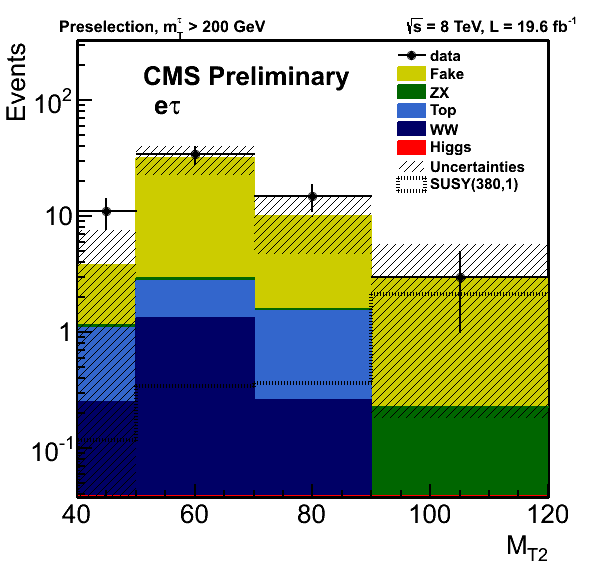
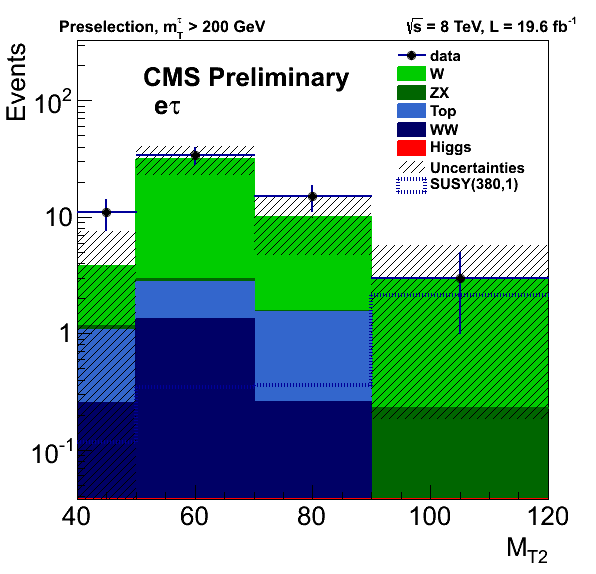
plots in StatisticsFig are modified.

diff --git a/notes/SUS-14-022/trunk/StatisticsFig/MT2_tauMTgt200_DDFakeEleTau.C b/notes/SUS-14-022/trunk/StatisticsFig/MT2_tauMTgt200_DDFakeEleTau.C
@@ -265,10 +265,10 @@ void MT2_tauMTgt200_DDFakeEleTau(){
    Total200_fromMuTau_MT2_data_Rebinned->SetStats(0);
 
    ci = TColor::GetColor("#cccc00");
-   Total200_fromMuTau_MT2_data_Rebinned->SetFillColor(ci);
+   Total200_fromMuTau_MT2_data_Rebinned->SetFillColor(417);
 
    ci = TColor::GetColor("#cccc00");
-   Total200_fromMuTau_MT2_data_Rebinned->SetLineColor(ci);
+   Total200_fromMuTau_MT2_data_Rebinned->SetLineColor(417);
    Total200_fromMuTau_MT2_data_Rebinned->SetLineWidth(2);
 
    ci = TColor::GetColor("#cccc00");
@@ -417,7 +417,7 @@ void MT2_tauMTgt200_DDFakeEleTau(){
 
    TLegendEntry *entry;
    entry=leg->AddEntry(TauMTCut_MT2_data_Rebinned,"data","lp");
-   entry=leg->AddEntry(Total200_fromMuTau_MT2_data_Rebinned,"Fake","f");
+   entry=leg->AddEntry(Total200_fromMuTau_MT2_data_Rebinned,"W","f");
    entry=leg->AddEntry(TauMTCut_MT2_ZX_Rebinned,"ZX","f");
    entry=leg->AddEntry(TauMTCut_MT2_Top_Rebinned,"Top","f");
    entry=leg->AddEntry(TauMTCut_MT2_WW_Rebinned,"WW","f");

diff --git a/notes/SUS-14-022/trunk/StatisticsFig/MT2muTau_tauMTgt200_DDFake.C b/notes/SUS-14-022/trunk/StatisticsFig/MT2muTau_tauMTgt200_DDFake.C
@@ -607,10 +607,10 @@ void MT2muTau_tauMTgt200_DDFake(){
   h2_DDFake->SetStats(0);
   //Int_t ci;   // for color index setting
   ci = TColor::GetColor("#cccc00");
-  h2_DDFake->SetFillColor(ci);
+  h2_DDFake->SetFillColor(417);
 
   ci = TColor::GetColor("#cccc00");
-  h2_DDFake->SetLineColor(ci);
+  h2_DDFake->SetLineColor(417);
   h2_DDFake->SetLineWidth(2);
 
   ci = TColor::GetColor("#cccc00");
@@ -990,7 +990,7 @@ void MT2muTau_tauMTgt200_DDFake(){
   leg->SetFillStyle(1001);
   TLegendEntry *entry;
   entry=leg->AddEntry(h2_copyAll,"data","pl");
-  entry=leg->AddEntry(h2_DDFake,"Fake","f");
+  entry=leg->AddEntry(h2_DDFake,"W","f");
   entry=leg->AddEntry(hAllMC__Zjets,"ZX","f");
   entry=leg->AddEntry(hAllMC__Top,"Top","f");
   entry=leg->AddEntry(hAllMC__WWjets,"WW","f");
